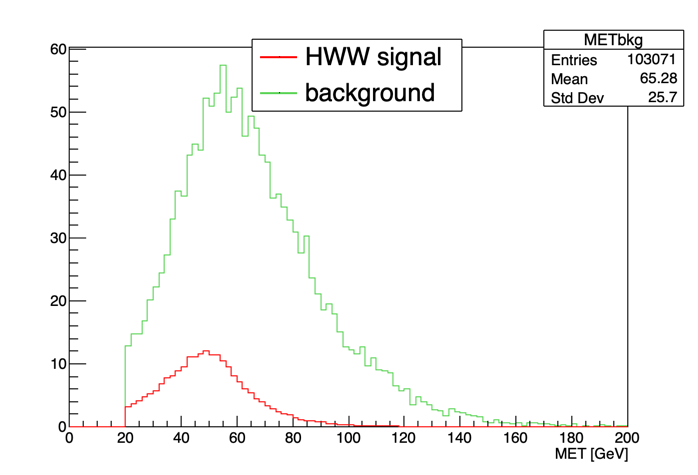
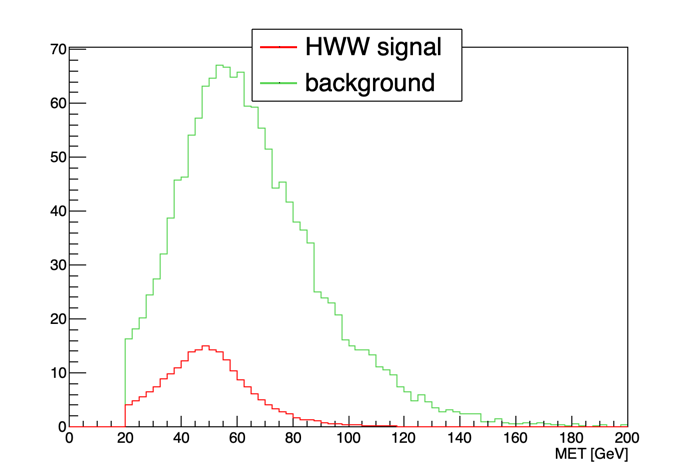
update antes de ir para casa

diff --git a/hw2/MASimHEP_significance_fit_exercise/pyROOT/significance_fit.py b/hw2/MASimHEP_significance_fit_exercise/pyROOT/significance_fit.py
@@ -107,11 +107,14 @@ print('\n\n++ QUESTION 1')
 # 1) Make histograms of a few variables for the signal and background in the same plot (pTLL, dPhiLLmet, dPhi_LL,
 # MET, mT).
 
-nbins = 100
-variable_dict = {"ptLL": ["ptLL", nbins, 0., 300.], "dPhiLLmet": ["dPhiLLmet", nbins, 0., 3.5],
+nbins = 80
+variable_dict = {"ptLL": ["ptLL", nbins, 0., 250.], "dPhiLLmet": ["dPhiLLmet", nbins, 0., 3.5],
                  "dPhi_LL": ["dPhi_LL", nbins, 0., 3.2],
                  "MET": ["MET", nbins, 0., 200.], "mt": ["mt", nbins, 0., 300.], "goodjet_n": ["goodjet_n", 2, 0., 2.],
                  "goodbjet_n": ["goodbjet_n", 2, 0., 2.]}
+# Histogram dictionary
+# initialize a emptuy dictionary to append the entries in the loop
+histograms = {}
 
 for var in variable_dict:
     sighist = ROOT.TH1F(var + "sig", "", variable_dict[var][1], variable_dict[var][2], variable_dict[var][3])
@@ -127,14 +130,17 @@ for var in variable_dict:
     bkghist.GetXaxis().SetTitle(f"{var} [GeV]")
 
     legend = ROOT.TLegend()
+    ROOT.gStyle.SetOptStat(0)
     bkghist.Draw("hist")
     bkghist.SetMinimum(0)
     sighist.Draw("histsame")
     legend.AddEntry(sighist, "HWW signal")
     legend.AddEntry(bkghist, "background")
+    histograms[variable_dict[var][0]] = [sighist, bkghist]
     legend.Draw()
-    c.Print(f"../Exercise1/{var}.png")
 
+    c.Print(f"../Exercise1/{var}.png")
+c.Clear()
 ######################################## QUESTION 2 ########################################
 print('\n\n++ QUESTION 2')
 # 2) Choose two variables for the signal selection optimisation. Justify your choice.
@@ -150,9 +156,55 @@ print(
 ######################################## QUESTION 3 ########################################
 print('\n\n++ QUESTION 3')
 # 3) Optimize the signal selection criteria using these two variables.
+# Calculate the significance of the signal and background histograms
 
+def significance(S, B):
+    if B == 0:
+        return 0
+    else:
+        return math.sqrt(2*(S+B)*math.log(1+S/B) - 2*S)
 
-# Define the variables
+# Define the variables to be used for the optimisation
+best_variables = ["ptLL", "MET"]
+S_right, B_right = 0, 0
+S_left, B_left = 0, 0
+
+for var in best_variables:
+    histograms[var].append(histograms[var][0].Clone())  # significance histogram from left to right
+    histograms[var].append(histograms[var][0].Clone())  # significance histogram from right to left
+
+    for i in range(1, histograms[var][0].GetNbinsX()+1):
+        S_right = S_right + histograms[var][0].GetBinContent(i)
+        B_right = B_right + histograms[var][1].GetBinContent(i)
+        histograms[var][2].SetBinContent(i, significance(S_right, B_right))
+
+        S_left = S_left + histograms[var][0].GetBinContent(histograms[var][0].GetNbinsX() - i + 1)
+        B_left = B_left + histograms[var][1].GetBinContent(histograms[var][0].GetNbinsX() - i + 1)
+        histograms[var][3].SetBinContent(i, significance(S_left, B_left))
+
+    max_significance_right = histograms[var][2].GetMaximum()
+    max_significance_left = histograms[var][3].GetMaximum()
+    histograms[var].append(max_significance_right)
+    histograms[var].append(max_significance_left)
+    # Plot the significance histograms
+    c.Divide(2, 1)
+    c.cd(1)
+    histograms[var][2].SetStats(0)
+    histograms[var][2].GetXaxis().SetTitle(f"{var} Bin")
+    histograms[var][2].GetYaxis().SetTitle("Significance (from left to right)")
+    histograms[var][2].Draw("hist")
+
+    c.cd(2)
+    histograms[var][3].SetStats(0)
+    histograms[var][3].GetXaxis().SetTitle(f"{var} Bin")
+    histograms[var][3].GetYaxis().SetTitle("Significance (right to left)")
+    histograms[var][3].Draw("hist")
+
+    c.Print(f"../Exercise1/significance_{var}.png")
+    c.Clear()
+
+# Make a cut on the histograms
+cut_values = {}
 
 
 # Close files in the end
